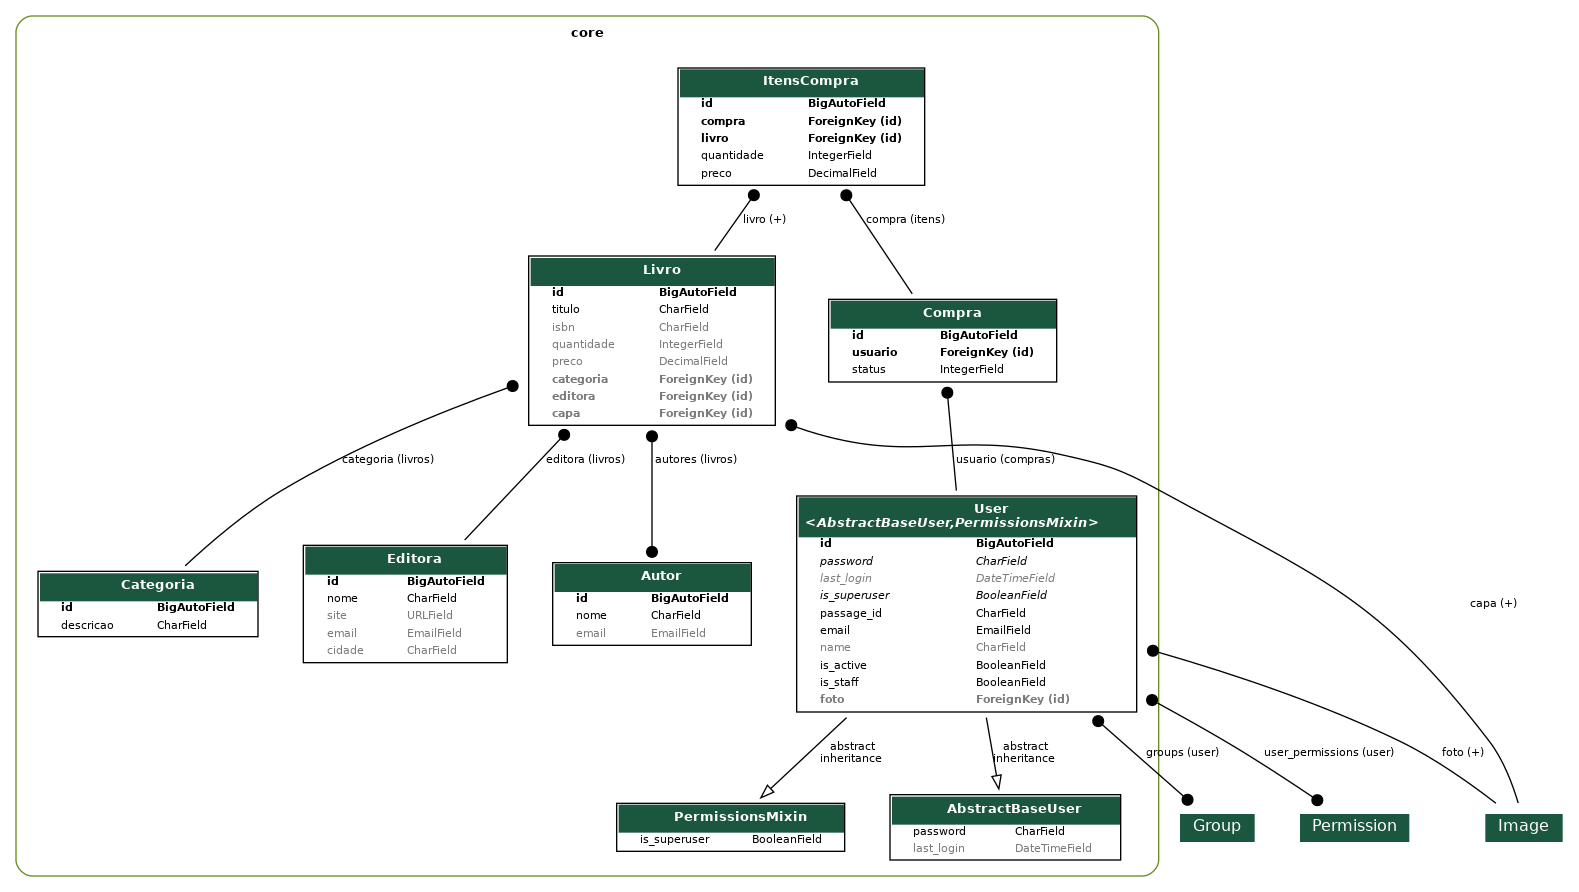
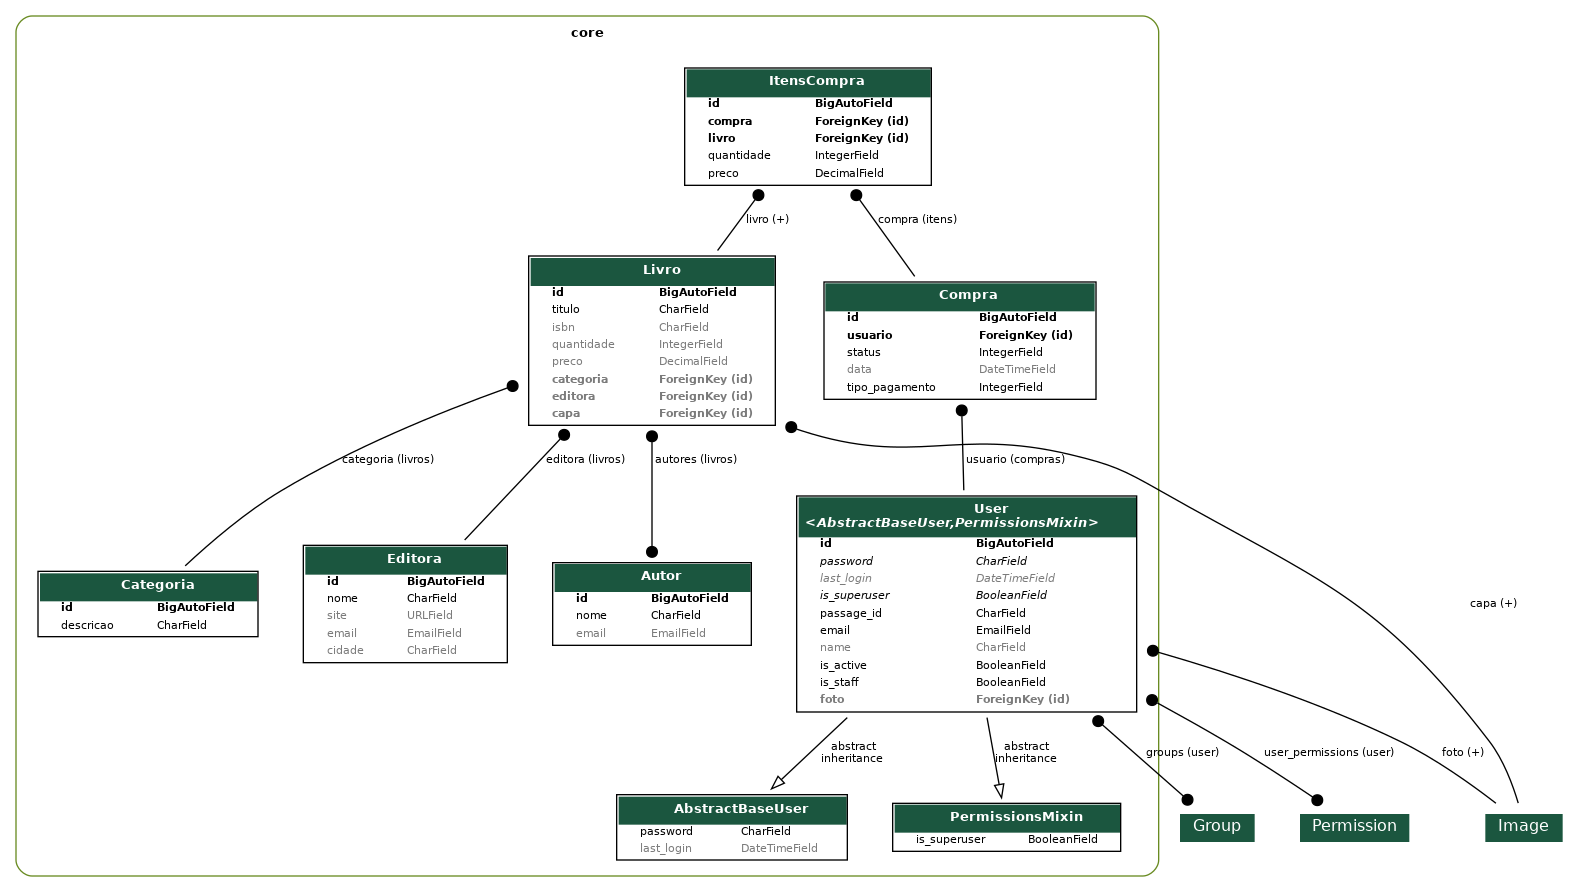
Adicionando tipo de pagamento à entidade de Compra

diff --git a/core/serializers/compra.py b/core/serializers/compra.py
@@ -1,4 +1,4 @@
-from rest_framework.serializers import ModelSerializer, CharField, SerializerMethodField, CurrentUserDefault, HiddenField, ValidationError
+from rest_framework.serializers import ModelSerializer, CharField, SerializerMethodField, CurrentUserDefault, HiddenField, ValidationError, DateTimeField
 
 from core.models import Compra, ItensCompra
 
@@ -17,11 +17,12 @@ class CompraSerializer(ModelSerializer):
     usuario = CharField(source="usuario.email", read_only=True)
     status = CharField(source="get_status_display", read_only=True)
     itens = ItensCompraSerializer(many=True, read_only=True)
+    data = DateTimeField(read_only=True)    
+    tipo_pagamento = CharField(source="get_tipo_pagamento_display", read_only=True)
     
     class Meta:
         model = Compra
-        # fields = "__all__"
-        fields = ("id", "usuario", "status", "total", "itens")
+        fields = ("id", "usuario", "status", "total", "data", "tipo_pagamento", "itens" )
 
 
 class ItensCompraCreateUpdateSerializer(ModelSerializer):
@@ -48,21 +49,21 @@ class CompraCreateUpdateSerializer(ModelSerializer):
         fields = ("usuario", "itens")
 
     def create(self, validated_data):
-        itens_data = validated_data.pop("itens")
+        itens = validated_data.pop("itens")
         compra = Compra.objects.create(**validated_data)
-        for item_data in itens_data:
-            item_data["preco"] = item_data["livro"].preco
-            ItensCompra.objects.create(compra=compra, **item_data)
+        for item in itens:
+            item["preco"] = item["livro"].preco
+            ItensCompra.objects.create(compra=compra, **item)
         compra.save()
         return compra
     
     def update(self, compra, validated_data):
-        itens_data = validated_data.pop("itens")
-        if itens_data:
+        itens = validated_data.pop("itens")
+        if itens:
             compra.itens.all().delete()
-            for item_data in itens_data:
-                item_data["preco"] = item_data["livro"].preco
-                ItensCompra.objects.create(compra=compra, **item_data)
+            for item in itens:
+                item["preco"] = item["livro"].preco
+                ItensCompra.objects.create(compra=compra, **item)
             compra.save()
             return super().update(compra, validated_data)
 

diff --git a/core/models/compra.py b/core/models/compra.py
@@ -8,14 +8,27 @@ class Compra(models.Model):
         CARRINHO = 1, "Carrinho"
         FINALIZADO = 2, "Realizado"
         PAGO = 3, "Pago"
-        ENTREGUE = 4, "Entegue"
+        ENTREGUE = 4, "Entregue"
+    
+    class TipoPagamento(models.IntegerChoices):
+        CARTAO_CREDITO = 1, "Cartão de Crédito"
+        CARTAO_DEBITO = 2, "Cartão de Débito"
+        PIX = 3, "Pix"
+        BOLETO = 4, "Boleto"
+        TRANSFERENCIA_BANCARIA = 5, "Transferência Bancária"
+        DINHEIRO = 6, "Dinheiro"
+        OUTRO = 7, "Outro"
+
 
     usuario = models.ForeignKey(User, on_delete=models.PROTECT, related_name="compras")
     status = models.IntegerField(choices=StatusCompra.choices, default=StatusCompra.CARRINHO)
+    data = models.DateTimeField(auto_now_add=True)
+    tipo_pagamento = models.IntegerField(choices=TipoPagamento.choices, default=TipoPagamento.CARTAO_CREDITO)
+
 
     @property
     def total(self):
-        return sum(item_data .preco * item_data .quantidade for item_data  in self.item_data.all()) 
+        return sum(item.preco * item.quantidade for item in self.itens.all()) 
 
 class ItensCompra(models.Model):
     compra = models.ForeignKey(Compra, on_delete=models.CASCADE, related_name="itens")

diff --git a/core/migrations/0021_compra_tipo_pagamento.py b/core/migrations/0021_compra_tipo_pagamento.py
@@ -1,0 +1,29 @@
+# Generated by Django 5.1.3 on 2024-12-16 12:21
+
+from django.db import migrations, models
+
+
+class Migration(migrations.Migration):
+
+    dependencies = [
+        ("core", "0020_compra_data"),
+    ]
+
+    operations = [
+        migrations.AddField(
+            model_name="compra",
+            name="tipo_pagamento",
+            field=models.IntegerField(
+                choices=[
+                    (1, "Cartão de Crédito"),
+                    (2, "Cartão de Débito"),
+                    (3, "Pix"),
+                    (4, "Boleto"),
+                    (5, "Transferência Bancária"),
+                    (6, "Dinheiro"),
+                    (7, "Outro"),
+                ],
+                default=1,
+            ),
+        ),
+    ]

diff --git a/core/migrations/0022_alter_compra_status.py b/core/migrations/0022_alter_compra_status.py
@@ -1,0 +1,20 @@
+# Generated by Django 5.1.3 on 2024-12-16 12:52
+
+from django.db import migrations, models
+
+
+class Migration(migrations.Migration):
+
+    dependencies = [
+        ("core", "0021_compra_tipo_pagamento"),
+    ]
+
+    operations = [
+        migrations.AlterField(
+            model_name="compra",
+            name="status",
+            field=models.IntegerField(
+                choices=[(1, "Carrinho"), (2, "Realizado"), (3, "Pago"), (4, "Entregue")], default=1
+            ),
+        ),
+    ]

diff --git a/core/migrations/0020_compra_data.py b/core/migrations/0020_compra_data.py
@@ -1,0 +1,20 @@
+# Generated by Django 5.1.3 on 2024-12-16 11:51
+
+import django.utils.timezone
+from django.db import migrations, models
+
+
+class Migration(migrations.Migration):
+
+    dependencies = [
+        ("core", "0019_itenscompra_preco"),
+    ]
+
+    operations = [
+        migrations.AddField(
+            model_name="compra",
+            name="data",
+            field=models.DateTimeField(auto_now_add=True, default=django.utils.timezone.now),
+            preserve_default=False,
+        ),
+    ]
